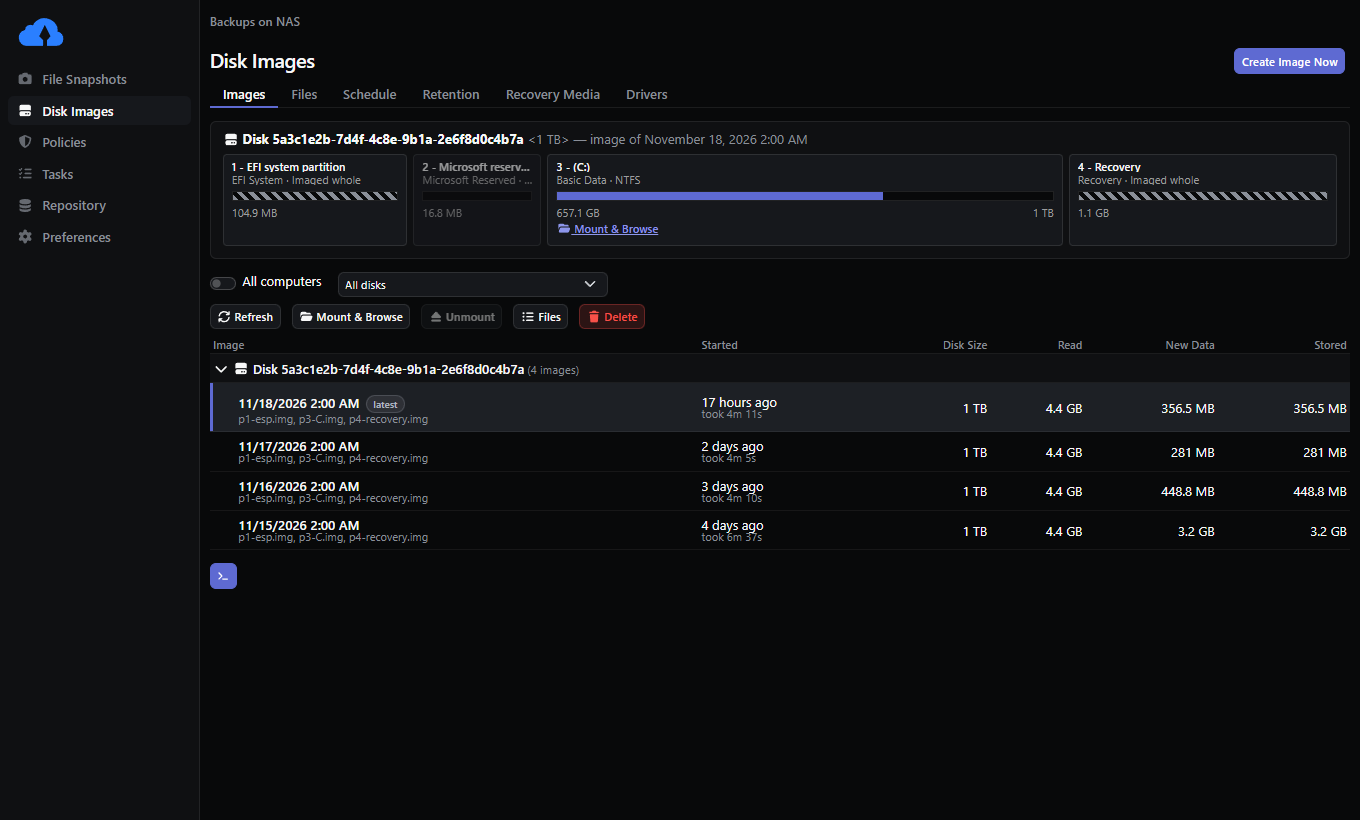
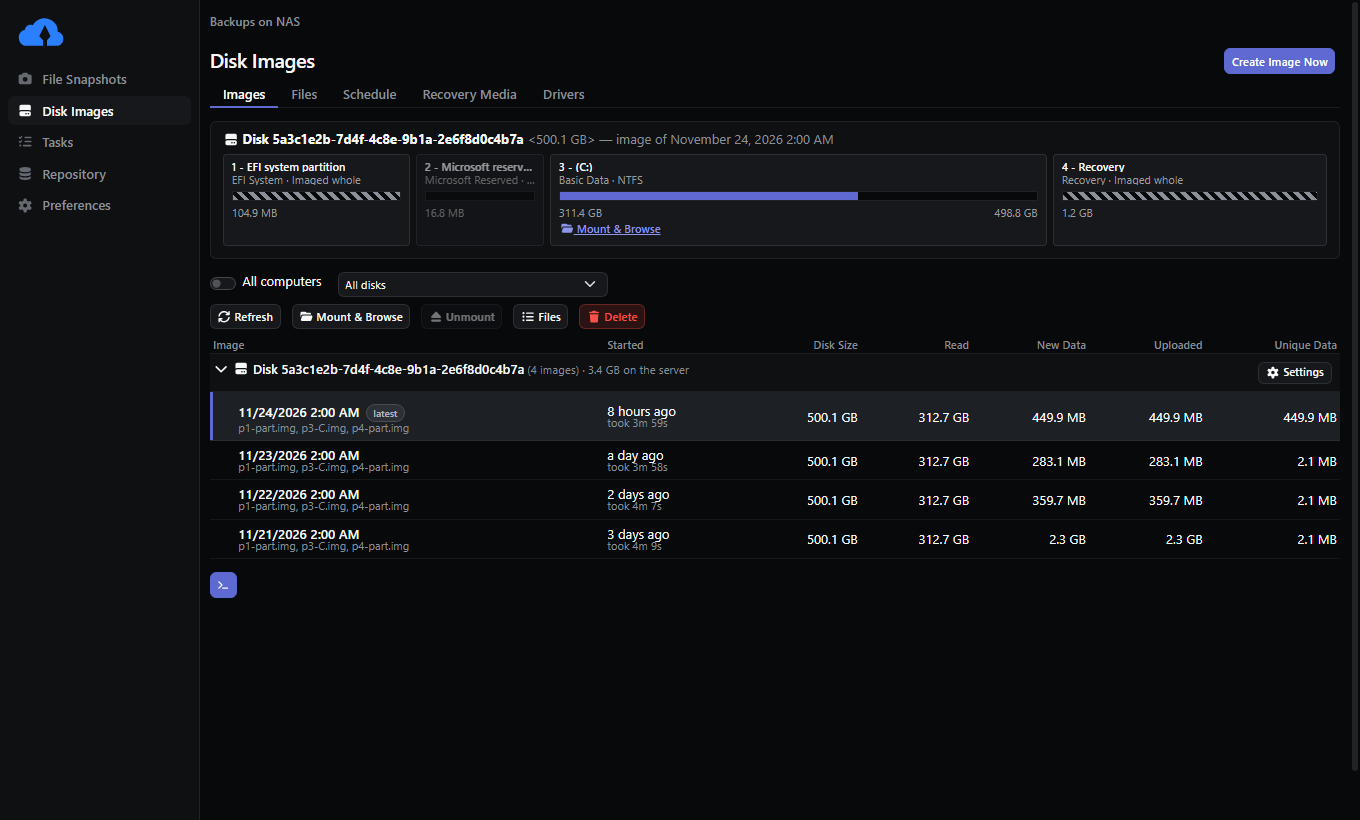
docs(readme): bring the README and its screenshots up to date
- the app's name, Kopia-Image, and the -image.<n> release numbering
- the Explorer "Unmount Kopia snapshot" entry and kopia server unmount
- per-disk Settings and schedules, retention on Repository › Defaults,
  and the File Snapshots settings tabs
- new screenshots of File Snapshots, Disk Images and a disk's Settings
  (which replaces the Retention tab, gone from the page), taken from a
  throwaway repository

diff --git a/README.md b/README.md
@@ -10,7 +10,7 @@ Kopia-Image (personal fork of Kopia with disk images and a Wails-based KopiaUI)
 What this fork adds
 ---
 
-### A lighter KopiaUI built with Wails
+### Kopia-Image: a lighter KopiaUI built with Wails
 
 The Kopia-Image desktop app (formerly KopiaUI-Wails), in the [`app-wails/`](app-wails) directory, is a replacement for the Electron-based KopiaUI shell, built with [Wails v3](https://v3.wails.io/). It uses the WebView2 runtime that ships with Windows, or WebKitGTK on Linux, and runs the same `kopia server` with this fork's web UI, with:
 
@@ -19,24 +19,26 @@ The Kopia-Image desktop app (formerly KopiaUI-Wails), in the [`app-wails/`](app-
 * remembered window size, position and active repository
 * an error page when the server fails to start, instead of a blank window
 * snapshots that run at background priority, so that they yield to whatever you are doing
-* on Windows, snapshots mounted as native drives through [WinFsp](https://winfsp.dev/) when it is installed (the installer offers it), falling back to WebDAV otherwise
+* on Windows, snapshots mounted as native drives through [WinFsp](https://winfsp.dev/) when it is installed (the installer offers it), falling back to WebDAV otherwise, and an **Unmount Kopia snapshot** entry in Explorer's context menu on the drives it mounts
 * a UAC prompt for each action that needs administrator rights, such as creating disk images or recovery media, rather than running KopiaUI elevated
 * a small per-user NSIS installer on Windows (no administrator rights needed), and a `.deb` on Linux; both share the repository configuration (`%APPDATA%\kopia` or `~/.config/kopia`) with upstream KopiaUI and the CLI
 
 The web UI comes from this fork's [htmlui](https://github.com/pletch/htmlui) and is served by `kopia server` too, so the browser sees the same changes:
 
-* a left sidebar instead of the top navigation bar, and a dark "linear" theme, the default when the system prefers dark mode; KopiaUI's title bar follows the theme's colors
+* a left sidebar instead of the top navigation bar, and a dark "linear" theme, the default when the system prefers dark mode; the app's title bar follows the theme's colors
 * reworked Snapshots, History, Policies and Tasks tables, with the new data and stored size of each snapshot
-* a **Disk Images** page, described [below](#block-level-disk-images-for-windows-kopia-image); file sources are listed under **File Snapshots**
+* **File Snapshots** lists the folders, with tabs for their Exclusions, Schedule, Actions and Advanced settings, each set for every computer or for this one; a folder's own policy is edited on its page, so the Policies page has left the sidebar
+* **Repository › Defaults** sets the retention of every folder and disk at once, and of each computer
+* a **Disk Images** page, described [below](#block-level-disk-images-for-windows-kopia-image)
 
-![File Snapshots in the dark "linear" theme, with the sidebar and the New Data and Stored columns](.github/readme/file-snapshots.png)
+![File Snapshots in the dark "linear" theme: the Folders tab with the New Data and Stored columns, and the settings tabs beside it](.github/readme/file-snapshots.png)
 
 **It uses less memory in most scenarios.** Closing the window shuts WebView2 down completely, whereas Electron keeps its main, GPU and helper processes running. Measured on Windows 11 (private memory, UI shell only; the `kopia.exe` server adds about 140 MB to both):
 
 | | Window open | Window closed (tray only) |
 |---|---|---|
 | Electron KopiaUI (upstream) | 219 MB | 178 MB |
-| Wails KopiaUI (this fork) | 237 MB | **59 MB** |
+| Kopia-Image (this fork) | 237 MB | **59 MB** |
 
 With a window open the two are about the same, since both render the page with Chromium. Because KopiaUI spends most of its time in the tray, this fork typically saves about 120 MB of RAM, plus about 350 MB of disk.
 
@@ -63,13 +65,13 @@ Upstream Kopia backs up files and folders only. This fork can also take block-le
   * every file's parent folder exists.
 
   This reads only file system metadata: about 7 seconds for a 1 TB system volume with 2.3 million files.
-* **Scheduled images and checks:** Task Scheduler tasks that run as SYSTEM. They wake the computer, keep it awake while running and retry on failure. A run whose connection to the repository breaks, for example when a laptop switches networks, images again after 30 seconds, 2 and 5 minutes without uploading again what it saved. The tasks also clean up shadow copies left over after a crash or power loss, and record each run's result for monitoring. A run can be paused, resumed or stopped, and shows its progress. Every user can read the tasks' status, so KopiaUI shows the next and last run without running as administrator.
+* **Scheduled images and checks:** Task Scheduler tasks that run as SYSTEM, each disk at its own time. They wake the computer, keep it awake while running and retry on failure. A run whose connection to the repository breaks, for example when a laptop switches networks, images again after 30 seconds, 2 and 5 minutes without uploading again what it saved. The tasks also clean up shadow copies left over after a crash or power loss, and record each run's result for monitoring. A run can be paused, resumed or stopped, and shows its progress. Every user can read the tasks' status, so the app shows the next and last run without running as administrator.
 * **Measure what an image adds.** `kopia image compare <old> <new>` compares two images of a disk chunk by chunk: how many chunks are new, how much data really changed, how much smaller chunks would have made the image, and which folders caused it.
-* **A Disk Images page** in KopiaUI and the web UI: the images of each disk with a partition map, Mount & Browse, a Files tab, the schedule with its tasks and progress, a Retention tab to set how many images of each disk are kept, the recovery media's status and the drivers stored with the images. It shows how much the images of each disk take in the repository, each chunk counted once, and the Unique Data of each image, which deleting it would free. Recovery media can be built from the page, also as an ISO file and with the drivers of every computer. Actions that need administrator rights ask through UAC.
+* **A Disk Images page** in the app and the web UI: the images of each disk with a partition map, Mount & Browse, a Files tab, the schedule with its tasks and progress, Settings for each disk (when it is imaged and how many of its images are kept, over the repository defaults), the recovery media's status and the drivers stored with the images. It shows how much the images of each disk take in the repository, each chunk counted once, and the Unique Data of each image, which deleting it would free. Recovery media can be built from the page, also as an ISO file and with the drivers of every computer. Actions that need administrator rights ask through UAC.
 
-  ![The Disk Images page: a partition map of the selected image, and the images of the disk with their size, read, new and stored data](.github/readme/disk-images.png)
+  ![The Disk Images page: a partition map of the selected image, and the images of the disk with how much each read, added and uploaded, and the Unique Data that deleting it would free](.github/readme/disk-images.png)
 
-  ![The Retention tab: how many images of the disk to keep, each setting next to its effective value and where it comes from](.github/readme/disk-images-retention.png)
+  ![A disk's Settings: its schedule, and how many of its images to keep, each setting next to its effective value and where it comes from](.github/readme/disk-settings.png)
 
 ```
 kopia image create C: --dry-run                 # preview the partitions, the zeroed space and what is left out
@@ -85,7 +87,7 @@ kopia image recovery-media create --usb 3       # erase USB disk 3 and make it b
 kopia image recovery-media create --iso D:\kopia-recovery.iso
 ```
 
-Run `kopia image create`, `kopia image schedule` and `kopia image recovery-media create` as administrator. Images use the source `user@host:image:disk:<GUID>`, so retention is a policy like any other: set it on the Retention tab or with `kopia policy set`. MBR disks, dynamic disks, Storage Spaces and ReFS volumes are refused. BitLocker volumes are imaged decrypted, like everything else on the disk including the Windows account database, and are protected only by the repository's encryption. Scheduled runs use a copy of kopia in `C:\ProgramData\kopia\image`: the installer updates it after a UAC prompt, or run `kopia image schedule update` after upgrading. See [Disk Images](site/content/docs/Advanced/Disk%20Images/_index.md) for the details.
+Run `kopia image create`, `kopia image schedule` and `kopia image recovery-media create` as administrator. Images use the source `user@host:image:disk:<GUID>`, so retention is a policy like any other: set it in the disk's Settings, on Repository › Defaults, or with `kopia policy set`. MBR disks, dynamic disks, Storage Spaces and ReFS volumes are refused. BitLocker volumes are imaged decrypted, like everything else on the disk including the Windows account database, and are protected only by the repository's encryption. Scheduled runs use a copy of kopia in `C:\ProgramData\kopia\image`: the installer updates it after a UAC prompt, or run `kopia image schedule update` after upgrading. See [Disk Images](site/content/docs/Advanced/Disk%20Images/_index.md) for the details.
 
 > [!WARNING]
 > Disk images are new. Restores and recovery media have been tested on virtual disks, in Hyper-V with Secure Boot, and once on real hardware: recovery media saved as an ISO file and written to a USB stick with Rufus restored a 1 TB system disk, which then booted Windows. Windows does not boot from a disk in a USB enclosure, so connect a disk restored that way internally. Restores over Wi-Fi are not yet tested. Test a restore on spare hardware or a virtual machine before relying on images.
@@ -184,18 +186,19 @@ When the server uses `--tls-cert-file` and `--tls-key-file`, it picks up renewed
 
 * **Reconnect after sleep:** fixes a gRPC `readLoop` deadlock and reconnects to a repository server cleanly after Windows resumes from sleep.
 * **Better failed-snapshot notifications** in the Electron KopiaUI as well (see [app/NOTIFICATIONS.md](app/NOTIFICATIONS.md)).
-* **Named snapshot drives on Windows:** a snapshot mounted as a drive letter, from KopiaUI or `kopia mount`, appears in Explorer under its source and snapshot time (or "Kopia - All Snapshots") instead of "DavWWWRoot". A drive mounted through WinFsp can be read only by the user who mounted it.
+* **Named snapshot drives on Windows:** a snapshot mounted as a drive letter, from the app or `kopia mount`, appears in Explorer under its source and snapshot time (or "Kopia - All Snapshots") instead of "DavWWWRoot". A drive mounted through WinFsp can be read only by the user who mounted it. A drive the app mounted is unmounted from its context menu in Explorer, or with `kopia server unmount X:`.
 * **Snapshots leave last access times alone on Windows.** Where NTFS keeps last access times, upstream kopia's every listing of a folder made NTFS write to the disk, which, every 30 minutes on a large tree, changed thousands of places of the disk that disk images then had to store again. Folders and files are now read without updating them.
 * **New data and stored size per snapshot:** every file snapshot and image records how much new data it added, before and after compression, also through a repository server, and the web UI shows both.
 * **Fixes not (yet) proposed upstream:**
   * a deleted snapshot manifest no longer comes back when its deletion was saved within the same clock tick as the manifest, which on Windows' coarse clock left stray checkpoint snapshots behind;
   * a content read through a damaged cache entry is fetched from storage again instead of failing until the cache is cleared;
-  * `kopia image ls` browses images again (it had been shadowed by an alias of `image list`).
+  * `kopia image ls` browses images again (it had been shadowed by an alias of `image list`);
+  * a WebDAV drive disconnected with Explorer's Disconnect can be unmounted again, instead of staying mounted until the server restarts.
 
 Installing
 ---
 
-Releases are numbered `<upstream version>-wails.<n>`: `v0.23.1-wails.1` is the first fork release based on upstream Kopia v0.23.1 (including upstream changes made after v0.23.1; each release's notes name the exact upstream commit).
+Releases are numbered `<upstream version>-image.<n>`: `v0.23.1-image.1` is the first Kopia-Image release based on upstream Kopia v0.23.1 (including upstream changes made after v0.23.1; each release's notes name the exact upstream commit). Releases before the rename were numbered `-wails.<n>`; since `image` sorts before `wails`, a `-wails` install does not offer the update, so install it by hand.
 
 Download `Kopia-Image-Setup-<version>.exe` (or the portable zip) from this fork's [Releases](https://github.com/pletch/kopia-image/releases) page. It installs per-user to `%LOCALAPPDATA%\Programs\Kopia-Image` and bundles a `kopia.exe` built from this fork. Existing repositories configured with upstream KopiaUI are picked up automatically. Installing it over KopiaUI-Wails, the app's name before, replaces it: its settings, window positions and "Launch At Startup" are kept, and the old copy is uninstalled.
 
